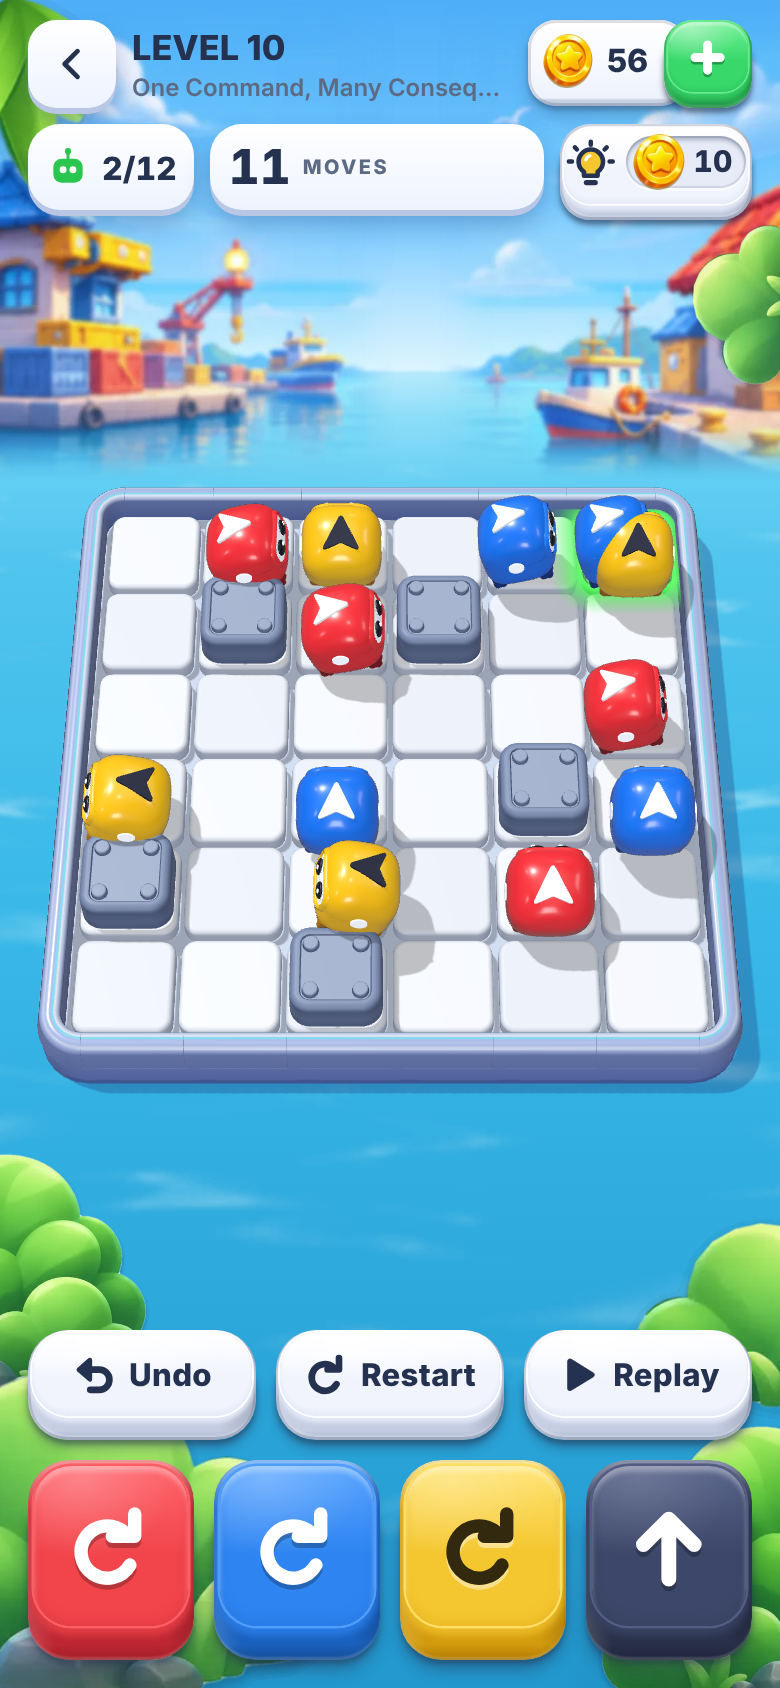
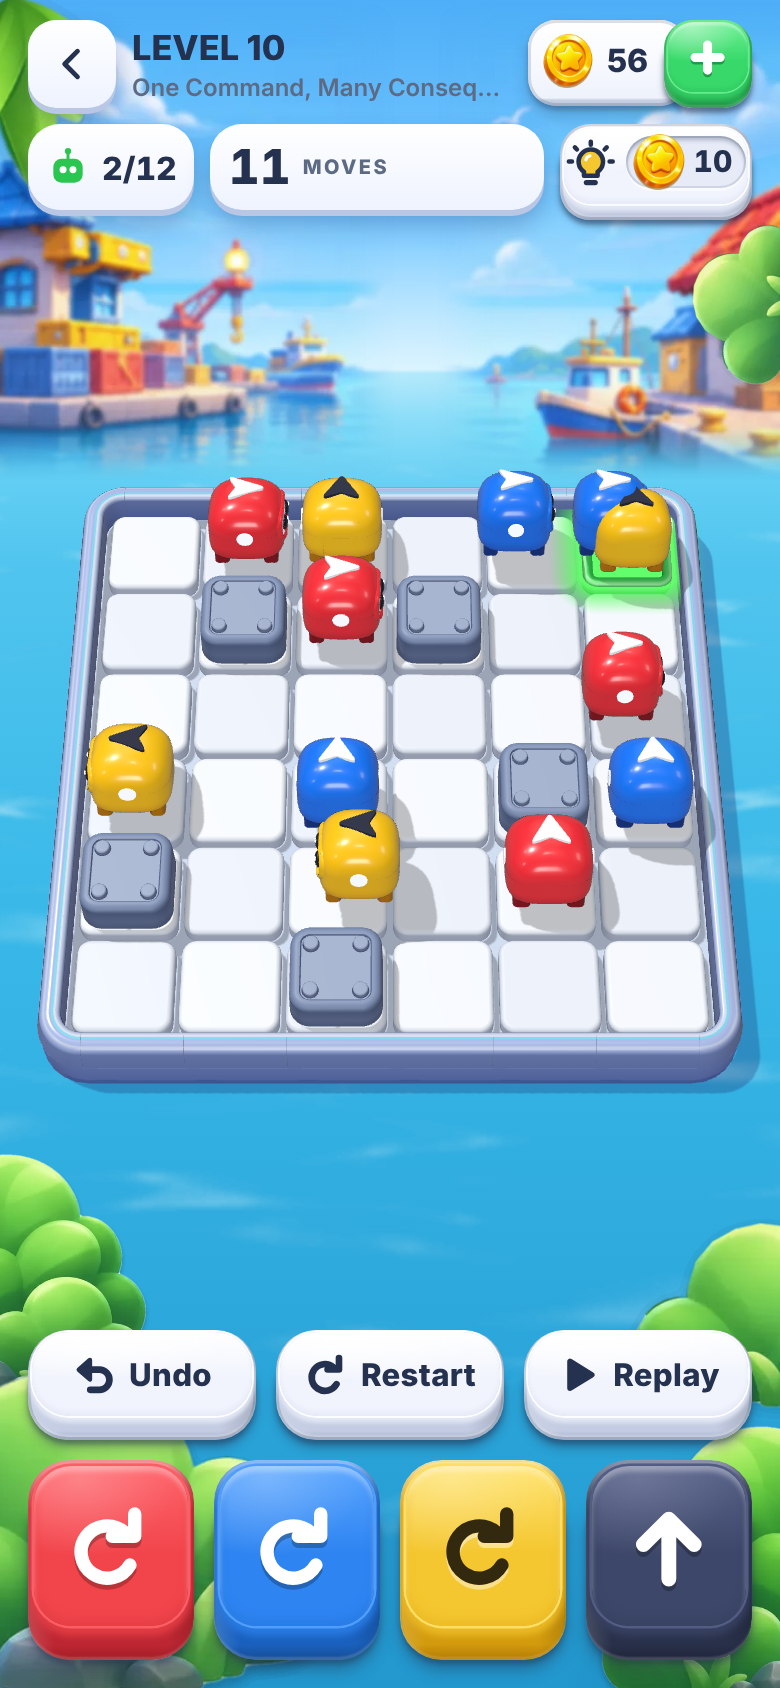
feat: robots turn as a whole and lean towards the player by default
The owner chose the "To player" heading style as the default.

Evidence: production/qa/evidence/game-integration/camera-30-level-10.png

Claude-Session: https://claude.ai/code/session_01PBSmYt1H4C2nYyM8qZZUXH

Changed region(s): [[0.6154, 0.2773, 0.9231, 0.5853], [0.2462, 0.2773, 0.5846, 0.5853], [0.0923, 0.4313, 0.2769, 0.5237]]

diff --git a/tests/unit/heading.test.ts b/tests/unit/heading.test.ts
@@ -135,10 +135,10 @@ describe('robots turn as a whole', () => {
 });
 
 describe('heading style in the test lab', () => {
-  it('the_default_is_the_whole_robot_turning_and_an_older_save_gets_it', () => {
-    expect(DEFAULT_LAB.heading).toBe('faceUp');
+  it('the_default_is_the_whole_robot_turning_towards_the_player_and_an_older_save_gets_it', () => {
+    expect(DEFAULT_LAB.heading).toBe('towardPlayer');
     const old = migrate({ version: SAVE_VERSION, best: {}, lab: { robots: 'builtin' } }, []);
-    expect(old.lab.heading).toBe('faceUp');
+    expect(old.lab.heading).toBe('towardPlayer');
     expect(old.lab.robots).toBe('builtin');
   });
 

diff --git a/src/game/lab.ts b/src/game/lab.ts
@@ -46,7 +46,7 @@ export const DEFAULT_LAB: LabSettings = {
   freeHelp: false,
   decor: true,
   robots: 'kit',
-  heading: 'faceUp',
+  heading: 'towardPlayer',
   boardPieces: 'kit',
 };
 

diff --git a/data/config-notes.md b/data/config-notes.md
@@ -36,7 +36,7 @@
 - `lab.previewMoves` — move budget on the board-size test boards (`data/test-boards.json`), which are not levels.
 - `light` — scene lighting: hemisphere `sky`/`ground` colours and `ambient` strength, `sun` strength, `reflections` (environment map strength) and ground `shadow` opacity. Tuned on screenshots so top faces show their colour token without blowing out.
 - `colors.robots` — per colour the top/main/side/deep tones the robot body is shaded with, plus eye colours. `robot` — lean towards the player (radians), eye size/spread/height, pupil size, gloss, how far the top lightens (`topLight`), arrow scale and offset.
-- `robot.faceUp` — the heading style in which the whole robot turns and its face keeps looking up at the camera (test lab "Robot turns: Face up", the default). `followCamera` — share (0–1) of the camera's tilt the turning axis follows: at 1 the robot turns around the line of sight, so every heading is the same picture turned a quarter and the eyes are as large facing away as facing the player; at 0 it turns around the board's upright and a robot facing away shows less face. `extraLean` — radians added to `robot.lean` in this style only; negative shows more of the top, so the symbol is seen whole, at the cost of a slightly lower face (tuned on screenshots at 53 px and 42 px cells). `forward` — cells the robot is moved along its heading after it has been centred on its cell, for fine-tuning by eye.
+- `robot.faceUp` — the heading style in which the whole robot turns and its face keeps looking up at the camera (test lab "Robot turns: Face up"; the default is "To player", the owner's choice of 2026-11-21). `followCamera` — share (0–1) of the camera's tilt the turning axis follows: at 1 the robot turns around the line of sight, so every heading is the same picture turned a quarter and the eyes are as large facing away as facing the player; at 0 it turns around the board's upright and a robot facing away shows less face. `extraLean` — radians added to `robot.lean` in this style only; negative shows more of the top, so the symbol is seen whole, at the cost of a slightly lower face (tuned on screenshots at 53 px and 42 px cells). `forward` — cells the robot is moved along its heading after it has been centred on its cell, for fine-tuning by eye.
 
 ## data/parts.json
 
